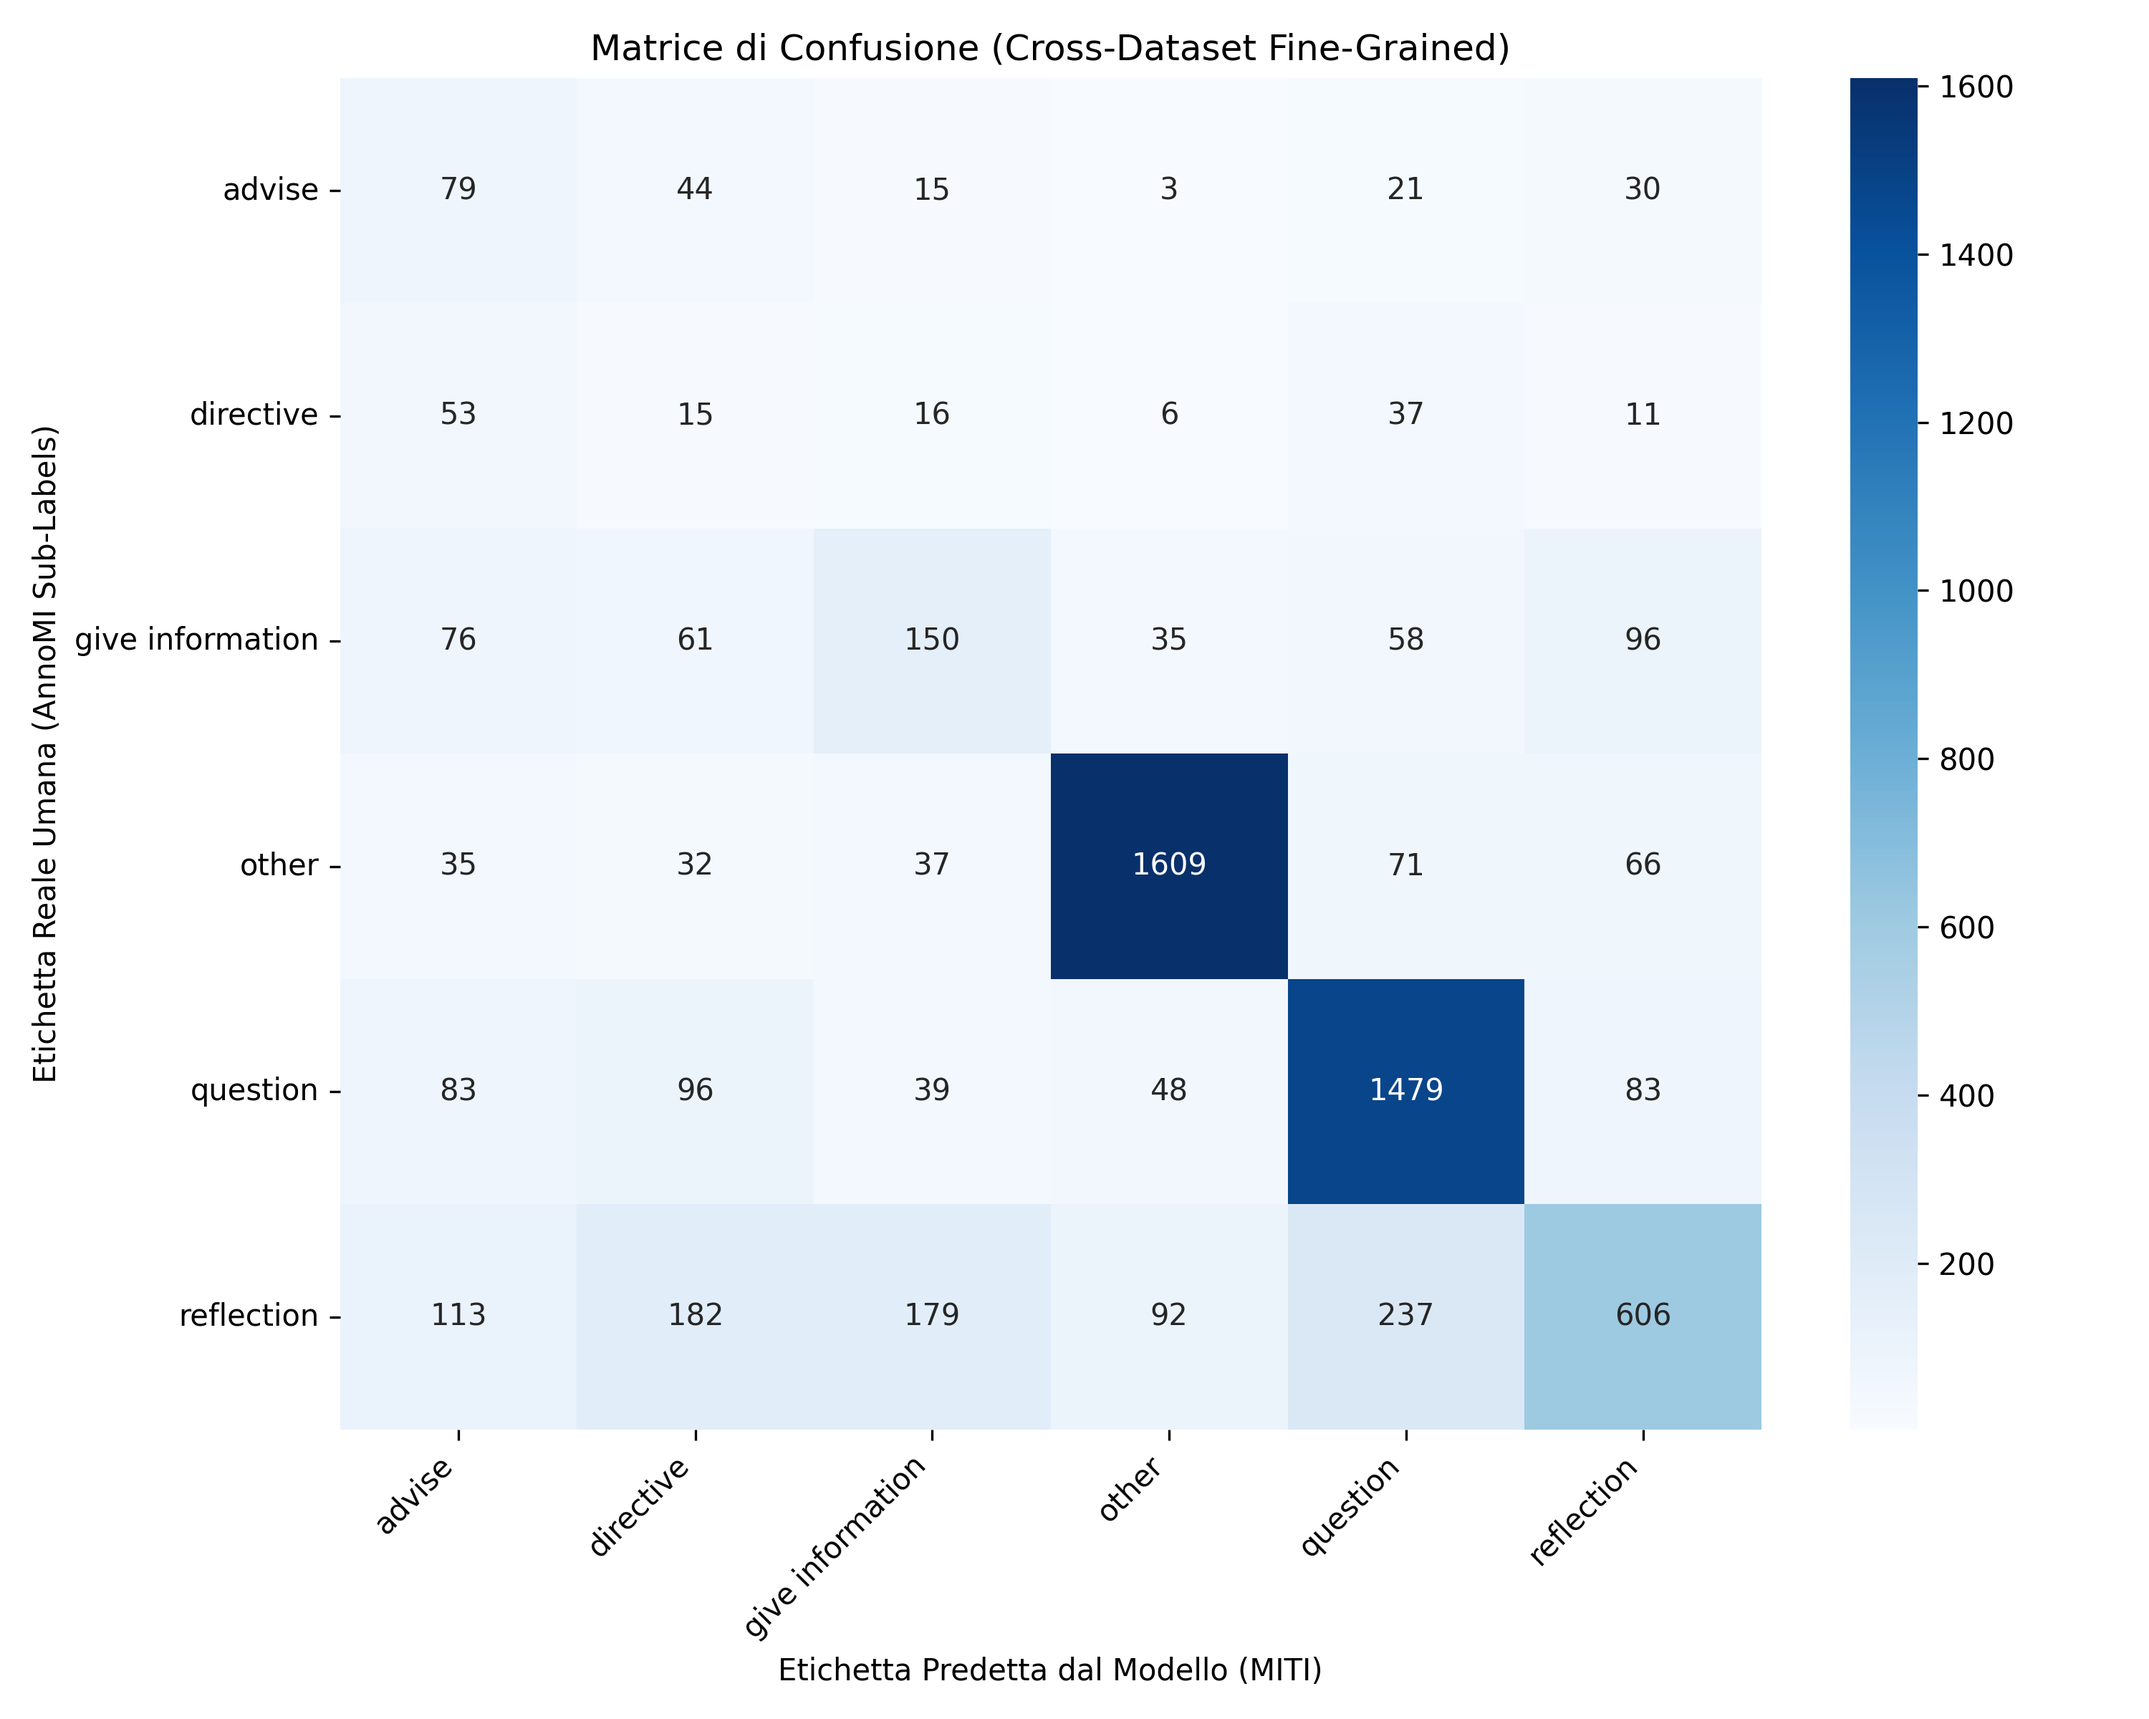
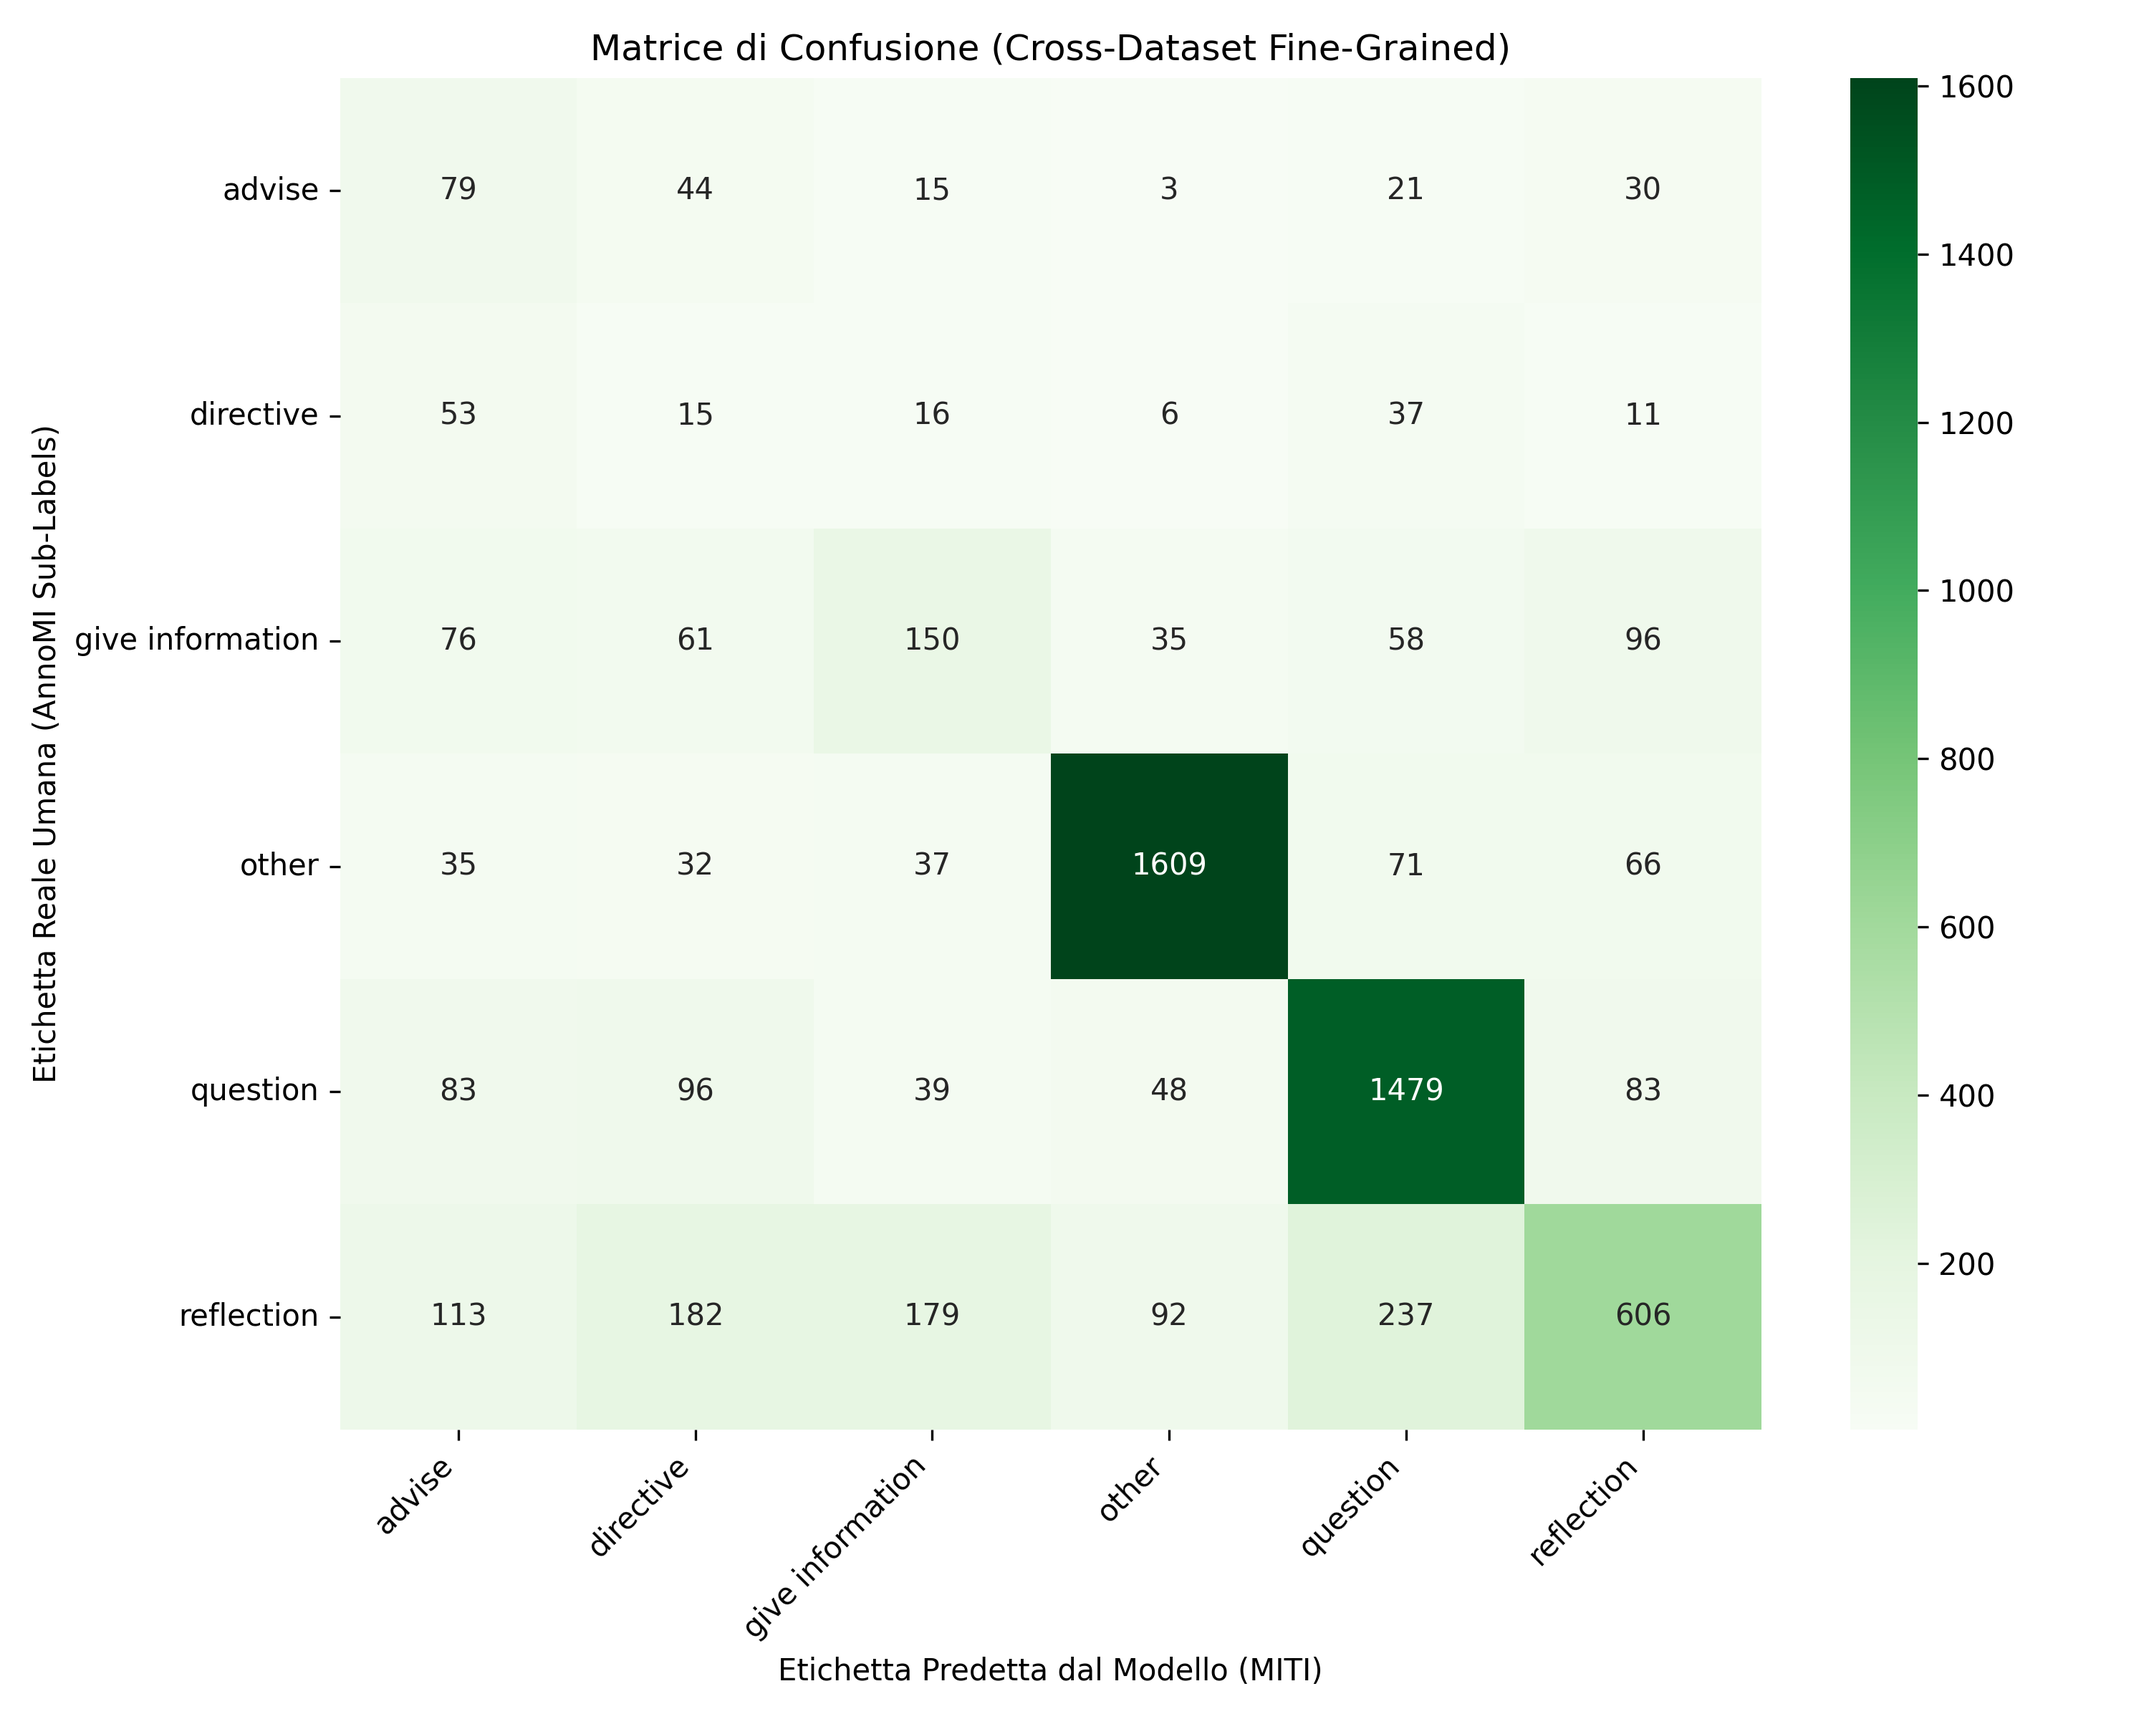
Update Cross Dataset Metrics

Changed region(s): [[0.465, 0.0312, 0.899, 0.8438]]

diff --git a/Semantic_Annotation_WebApp/Scripts/cross_dataset_metrics.py b/Semantic_Annotation_WebApp/Scripts/cross_dataset_metrics.py
@@ -98,7 +98,7 @@ def main():
         f.write(report_text)
 
     plt.figure(figsize=(10, 8))
-    sns.heatmap(cm, annot=True, fmt='d', cmap='Blues', xticklabels=labels, yticklabels=labels)
+    sns.heatmap(cm, annot=True, fmt='d', cmap='Greens', xticklabels=labels, yticklabels=labels)
     plt.title('Matrice di Confusione (Cross-Dataset Fine-Grained)')
     plt.ylabel('Etichetta Reale Umana (AnnoMI Sub-Labels)')
     plt.xlabel('Etichetta Predetta dal Modello (MITI)')
